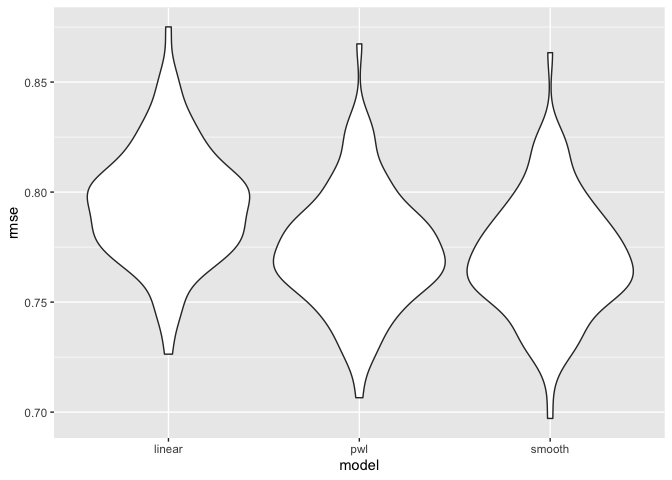
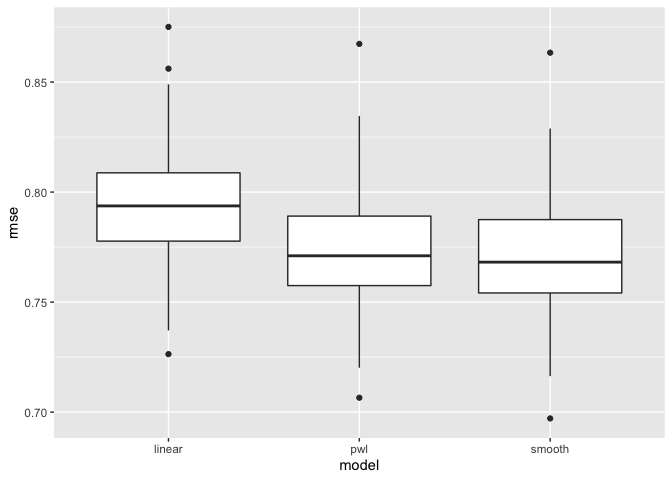
cross validation!!!

Changed region(s): [[0.4062, 0.0938, 0.9688, 0.875], [0.125, 0.0625, 0.375, 0.75]]

diff --git a/2021_11_18_lecture.md b/2021_11_18_lecture.md
@@ -269,7 +269,7 @@ cv_df %>%
     values_to = "rmse",
     names_prefix = "rmse_") %>% 
   mutate(model = fct_inorder(model)) %>% 
-  ggplot(aes(x = model, y = rmse)) + geom_violin()
+  ggplot(aes(x = model, y = rmse)) + geom_boxplot()
 ```
 
 ![](2021_11_18_lecture_files/figure-gfm/unnamed-chunk-18-1.png)<!-- -->
